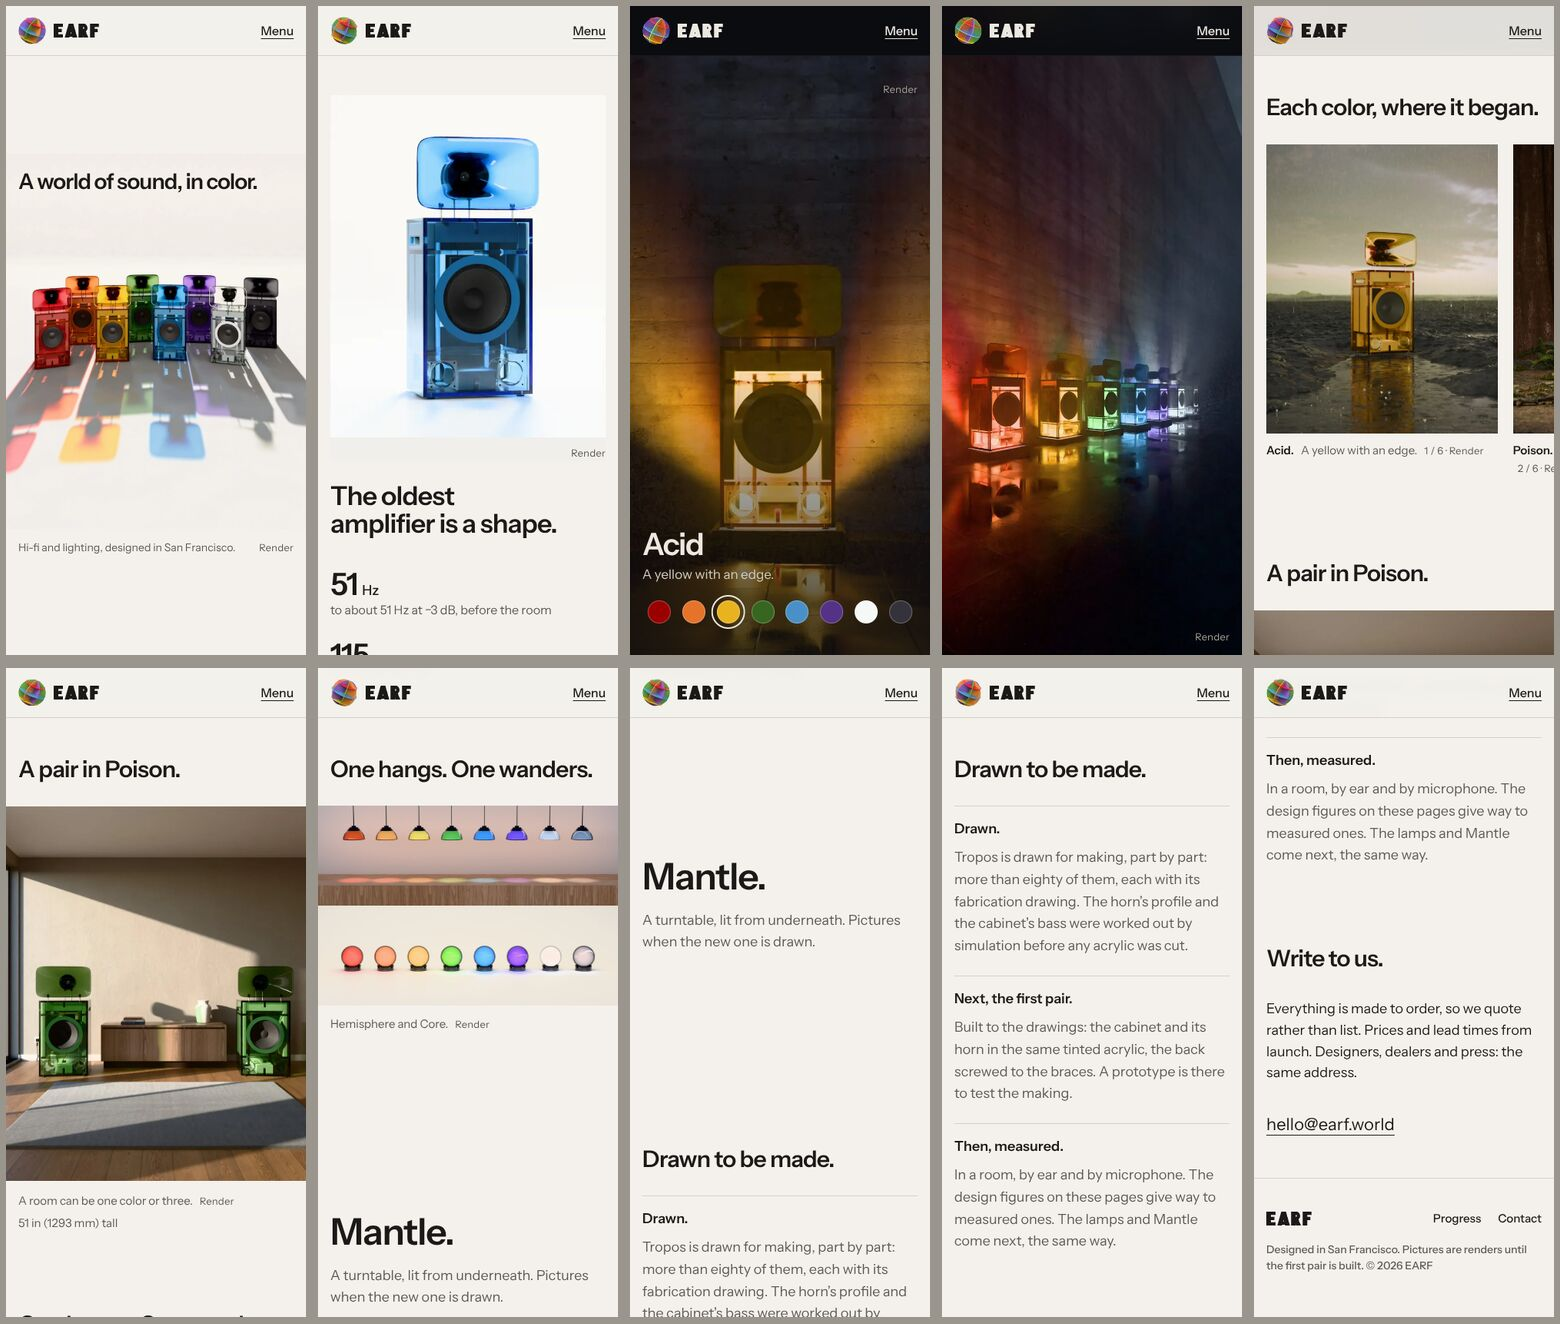
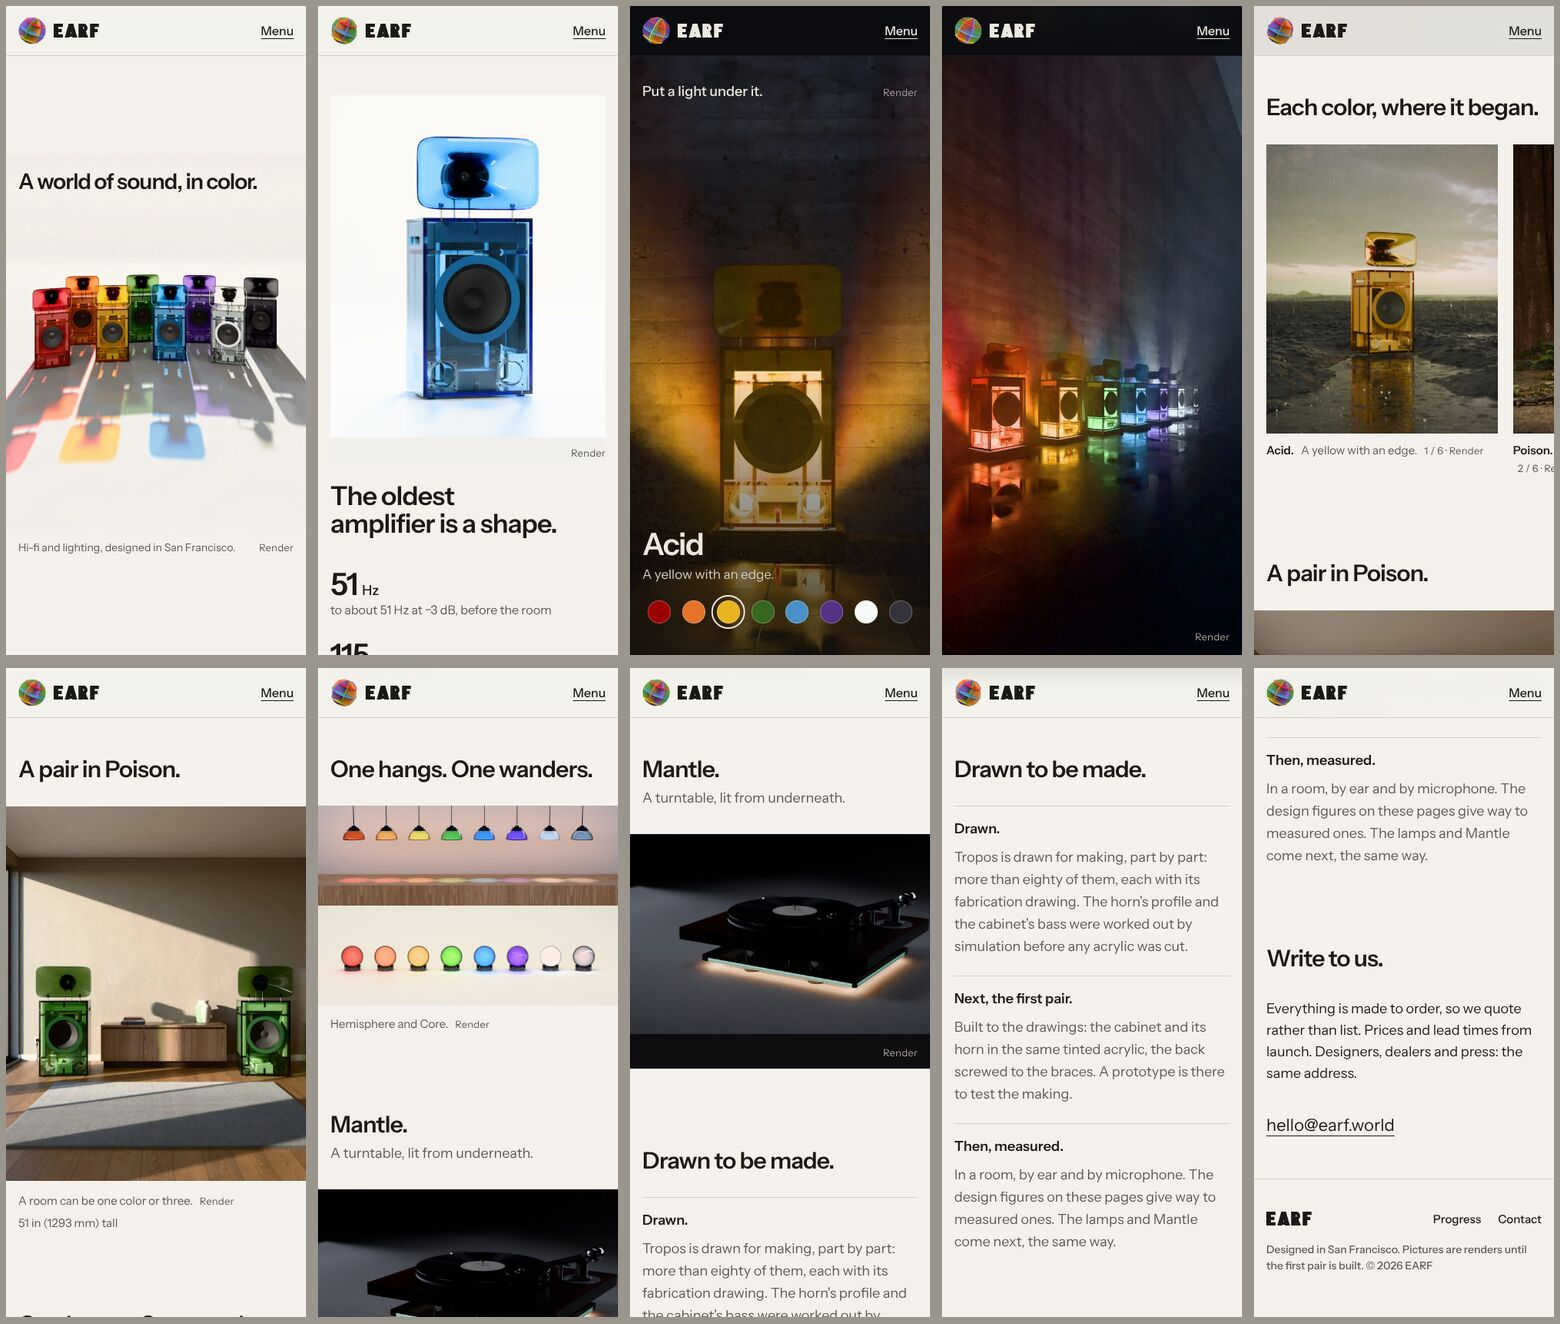
barkhorn site: HOME_V2: Mantle's screen is its picture (Strata Float v3 at dusk); the lines' Mantle tile too
The dusk render comes from r48-mantle-design (renders/2026-11-01/barkhorn/mantle-r48/a-dusk-ember-2423.png).
"Put a light under it." stays, as the coordinator asked; no new base wording.

Claude-Session: https://claude.ai/code/session_01BAaPTnZ3md8RoquoqYWJkd

diff --git a/spinoffs/barkhorn/site_v2.py b/spinoffs/barkhorn/site_v2.py
@@ -222,9 +222,9 @@ def light(p):
     in print: the uplit eight, with the eight names and lines beneath."""
     # the explainer and the number go; the section's line stays, small, at the top of the frame
     p.sub('<div class="wrap light-head"><p class="eyebrow">Lit from below</p><h2>Put a light under it.</h2><p>Cast acrylic carries light to its edges, so a lamp underneath fills the whole cabinet with color.</p></div>',
-          '<i class="anchor" id="colors"></i><div class="wrap light-head"><h2 class="vh">After dark</h2></div>')
+          '<i class="anchor" id="colors"></i><div class="wrap light-head"><h2 class="vh">Put a light under it.</h2></div>')
     p.sub('<div class="light-intro"><p class="eyebrow">Lit from below</p><h2>Put a light under it.</h2><p>Cast acrylic carries light to its edges, so a lamp underneath fills the whole cabinet with color.</p></div>',
-          '<div class="light-intro"><p class="light-kicker" aria-hidden="true"></p></div>')
+          '<div class="light-intro"><p class="light-kicker" aria-hidden="true">Put a light under it.</p></div>')
     p.sub('<p class="num" id="light-num">Tropos 01</p>', '<p class="num" id="light-num" hidden>Tropos 01</p>')
     # snap points, one per color, then the eight
     snaps = ''.join(f'<i class="snap" style="--s:{i}" aria-hidden="true"></i>' for i in range(8))
@@ -449,6 +449,33 @@ def lighten(p, web):
     p.sub('<div class="lines"><a class="tile" href="#speakers"><img src=', '<div class="lines"><a class="tile" href="#speakers"><img decoding="async" src=')
 
 
+MANTLE_SRC = 'renders/2026-11-01/barkhorn/mantle-r48/a-dusk-ember-2423.png'
+MANTLE = {'wide': 'img/v2/mantle-dusk-1200.webp', 'full': 'img/v2/mantle-dusk.webp', 'tile': 'img/v2/mantle-dusk-tile.webp'}
+
+
+def mantle(p, web):
+    """Mantle is drawn (Strata Float v3, the owner's pick of 1 November): its dusk frame wherever V2 shows Mantle on the
+    home, in place of the superseded white packshot."""
+    import os
+    from PIL import Image
+    src = os.path.join(web.ROOT, MANTLE_SRC)
+    os.makedirs(os.path.join(web.IMG, 'v2'), exist_ok=True)
+    im = Image.open(src).convert('RGB')
+    for key, w_ in (('full', 1800), ('wide', 1200)):
+        dst = os.path.join(web.SITE, MANTLE[key])
+        if not os.path.exists(dst) or os.path.getmtime(dst) < os.path.getmtime(src):
+            im.resize((w_, round(im.height * w_ / im.width)), Image.LANCZOS).save(dst, 'WEBP', quality=82, method=6)
+    dst = os.path.join(web.SITE, MANTLE['tile'])                  # 4:5 for the lines' tile, on the deck's middle
+    if not os.path.exists(dst) or os.path.getmtime(dst) < os.path.getmtime(src):
+        cw = round(im.height * 4 / 5)
+        x0 = max(0, min(im.width - cw, round(im.width * 0.52 - cw / 2)))
+        im.crop((x0, 0, x0 + cw, im.height)).resize((1200, 1500), Image.LANCZOS).save(dst, 'WEBP', quality=82, method=6)
+    m = re.search(r'<a class="tile" href="#turntable"><img [^>]*>', p.rest)
+    if m:
+        p.rest = p.rest[:m.start()] + ('<a class="tile" href="#turntable"><img decoding="async" src="' + MANTLE['tile'] +
+                                       '" width="1200" height="1500" loading="lazy" alt="Mantle in Ember at dusk, its deck floating over a lit base">') + p.rest[m.end():]
+
+
 def home_v2(p, web):
     """The audit's recommended home ("launch film"): one picture and at most one line a screen, in an order that builds:
     the lineup, Sound, after dark, the world, at home, the lamps, Mantle, Studio, contact. The lines' tiles go. Mantle
@@ -463,10 +490,13 @@ def home_v2(p, web):
       <img src="img/lamps-orbs-1200.jpg" srcset="img/lamps-orbs-1200.jpg 1200w, img/lamps-orbs.webp 2400w" sizes="100vw" width="2400" height="800"
       loading="lazy" alt="Eight Core lamps in a row, lit, in spectrum order"><figcaption class="wrap">Hemisphere and Core. <i class="render">Render</i></figcaption></figure>
   </section>"""
-    mantle = """
-  <section class="band beat type-only" id="mantle-beat"><div class="wrap">
-    <h2><a href="#turntable">Mantle.</a></h2><p>A turntable, lit from underneath. Pictures when the new one is drawn.</p>
-  </div></section>"""
+    mantle = f"""
+  <section class="band beat" id="mantle-beat">
+    <div class="wrap"><h2><a href="#turntable">Mantle.</a></h2><p class="beat-line">A turntable, lit from underneath.</p></div>
+    <figure class="strip mantle-pic"><img src="{MANTLE['wide']}" srcset="{MANTLE['wide']} 1200w, {MANTLE['full']} 1800w" sizes="100vw" width="1800" height="1200"
+      loading="lazy" alt="Mantle in Ember at dusk, its tinted deck floating over a smoked base, light pooling beneath it">
+      <figcaption class="wrap"><i class="render">Render</i></figcaption></figure>
+  </section>"""
     i = p.rest.index('<main id="home">') + len('<main id="home">')
     j = p.rest.index('</main>', i)
     leftover = p.rest[i:j].strip()
@@ -477,6 +507,7 @@ def home_v2(p, web):
 /* round 48 (HOME_V2): the launch film */
 .beat h2 a { color: inherit; text-decoration: none } .beat h2 a:hover { text-decoration: underline; text-decoration-thickness: 2px; text-underline-offset: 6px }
 .strip { margin: 32px 0 0 } .strip img { display: block; width: 100%; height: auto } .strip figcaption { padding-top: 12px; color: var(--muted); font-size: 15px }
+.beat-line { color: var(--muted); margin: 8px 0 0 } .mantle-pic { background: #0E0D0F } .mantle-pic figcaption { text-align: right; padding-bottom: 10px } .mantle-pic .render { color: #A39E95 }
 .type-only { min-height: 60svh; display: grid; align-content: center } .type-only h2 { font-size: clamp(48px, 7vw, 104px) }
 .type-only p { color: var(--muted); max-width: 36ch }
 #sound, #habitats, #room, #lamps-beat, #mantle-beat, #progress, #contact { scroll-margin-top: var(--header) }
@@ -486,7 +517,7 @@ def home_v2(p, web):
 def render_word(p):
     """'Render', quietly, once per picture: the hero, Sound, the habitats and the room carry it in their captions
     (above); here the light stage, the uplit eight and the lines' tiles. The footer says it once for the site."""
-    p.sub('<p class="light-kicker" aria-hidden="true"></p>', '<p class="light-kicker" aria-hidden="true"></p><i class="render on-dark">Render</i>')
+    p.sub('<p class="light-kicker" aria-hidden="true">Put a light under it.</p>', '<p class="light-kicker" aria-hidden="true">Put a light under it.</p><i class="render on-dark">Render</i>')
     p.sub('<i class="snap-eight" aria-hidden="true"></i>', '<i class="snap-eight" aria-hidden="true"></i><i class="render on-dark eight-render">Render</i>')
     for line in ('A powered horn loudspeaker.', 'A pendant and a table lamp.', 'A turntable, lit from underneath.'):
         p.sub(f'<span class="t-line">{line}</span>', f'<span class="t-line">{line} <i class="render">Render</i></span>')
@@ -531,6 +562,7 @@ def apply(web, head, rest):
         habitats(p, web)
         paths(p, web)
         lighten(p, web)
+        mantle(p, web)
         render_word(p)
     if web.HOME_V2:
         home_v2(p, web)
